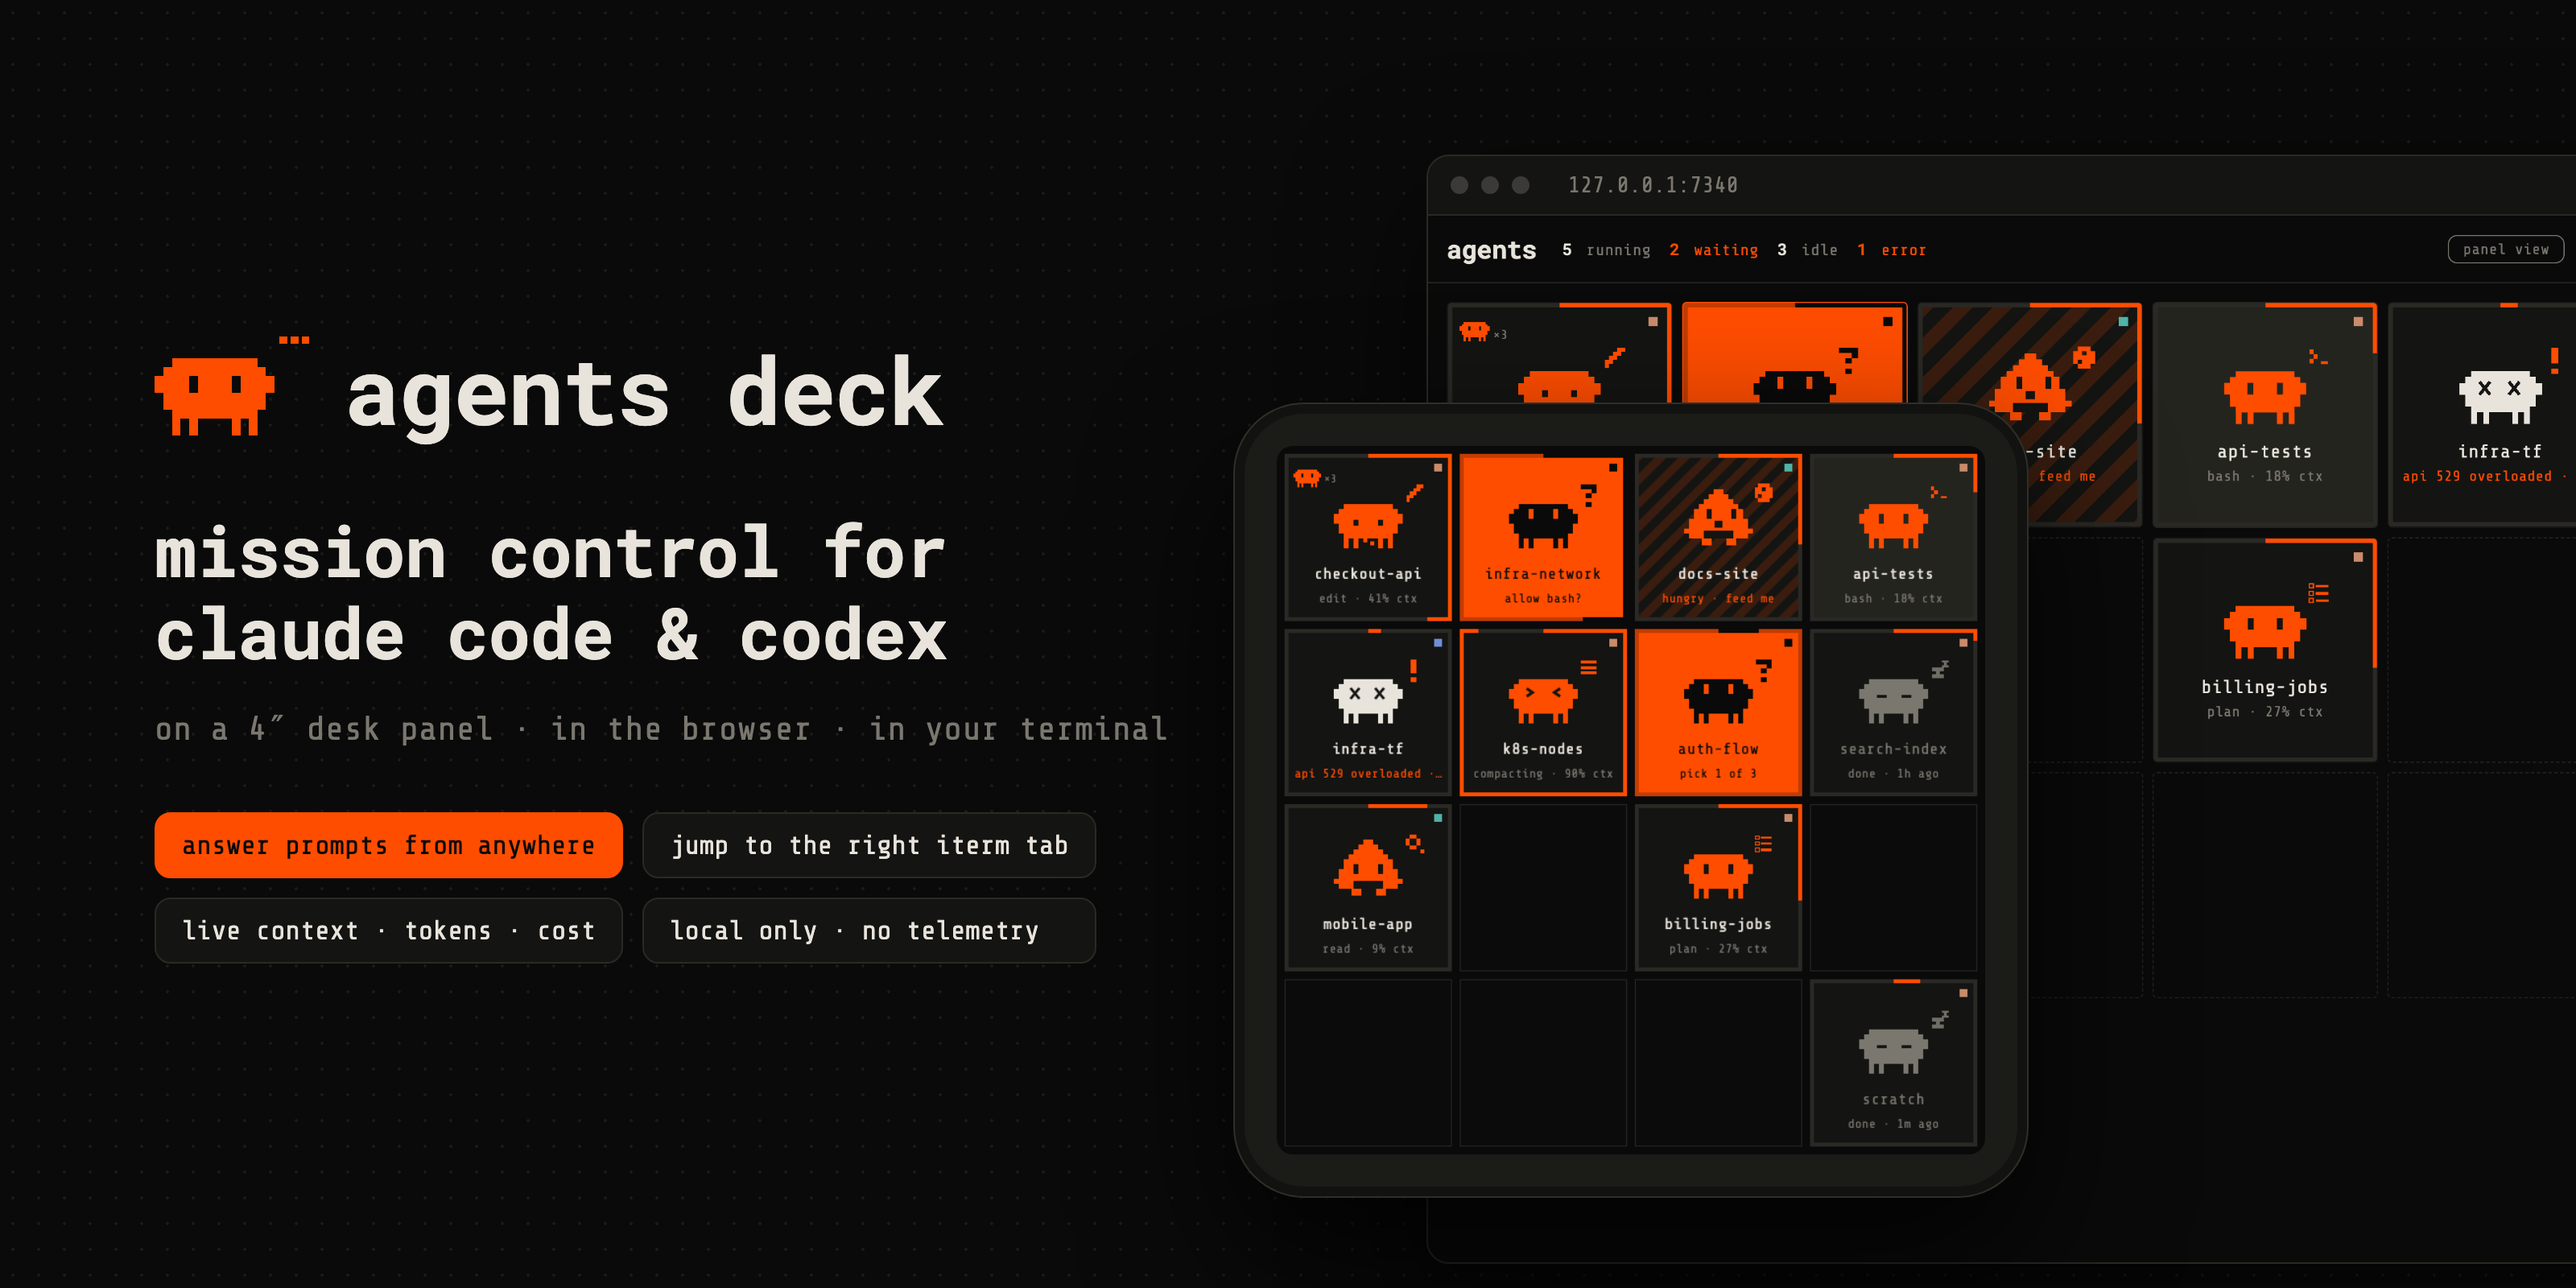
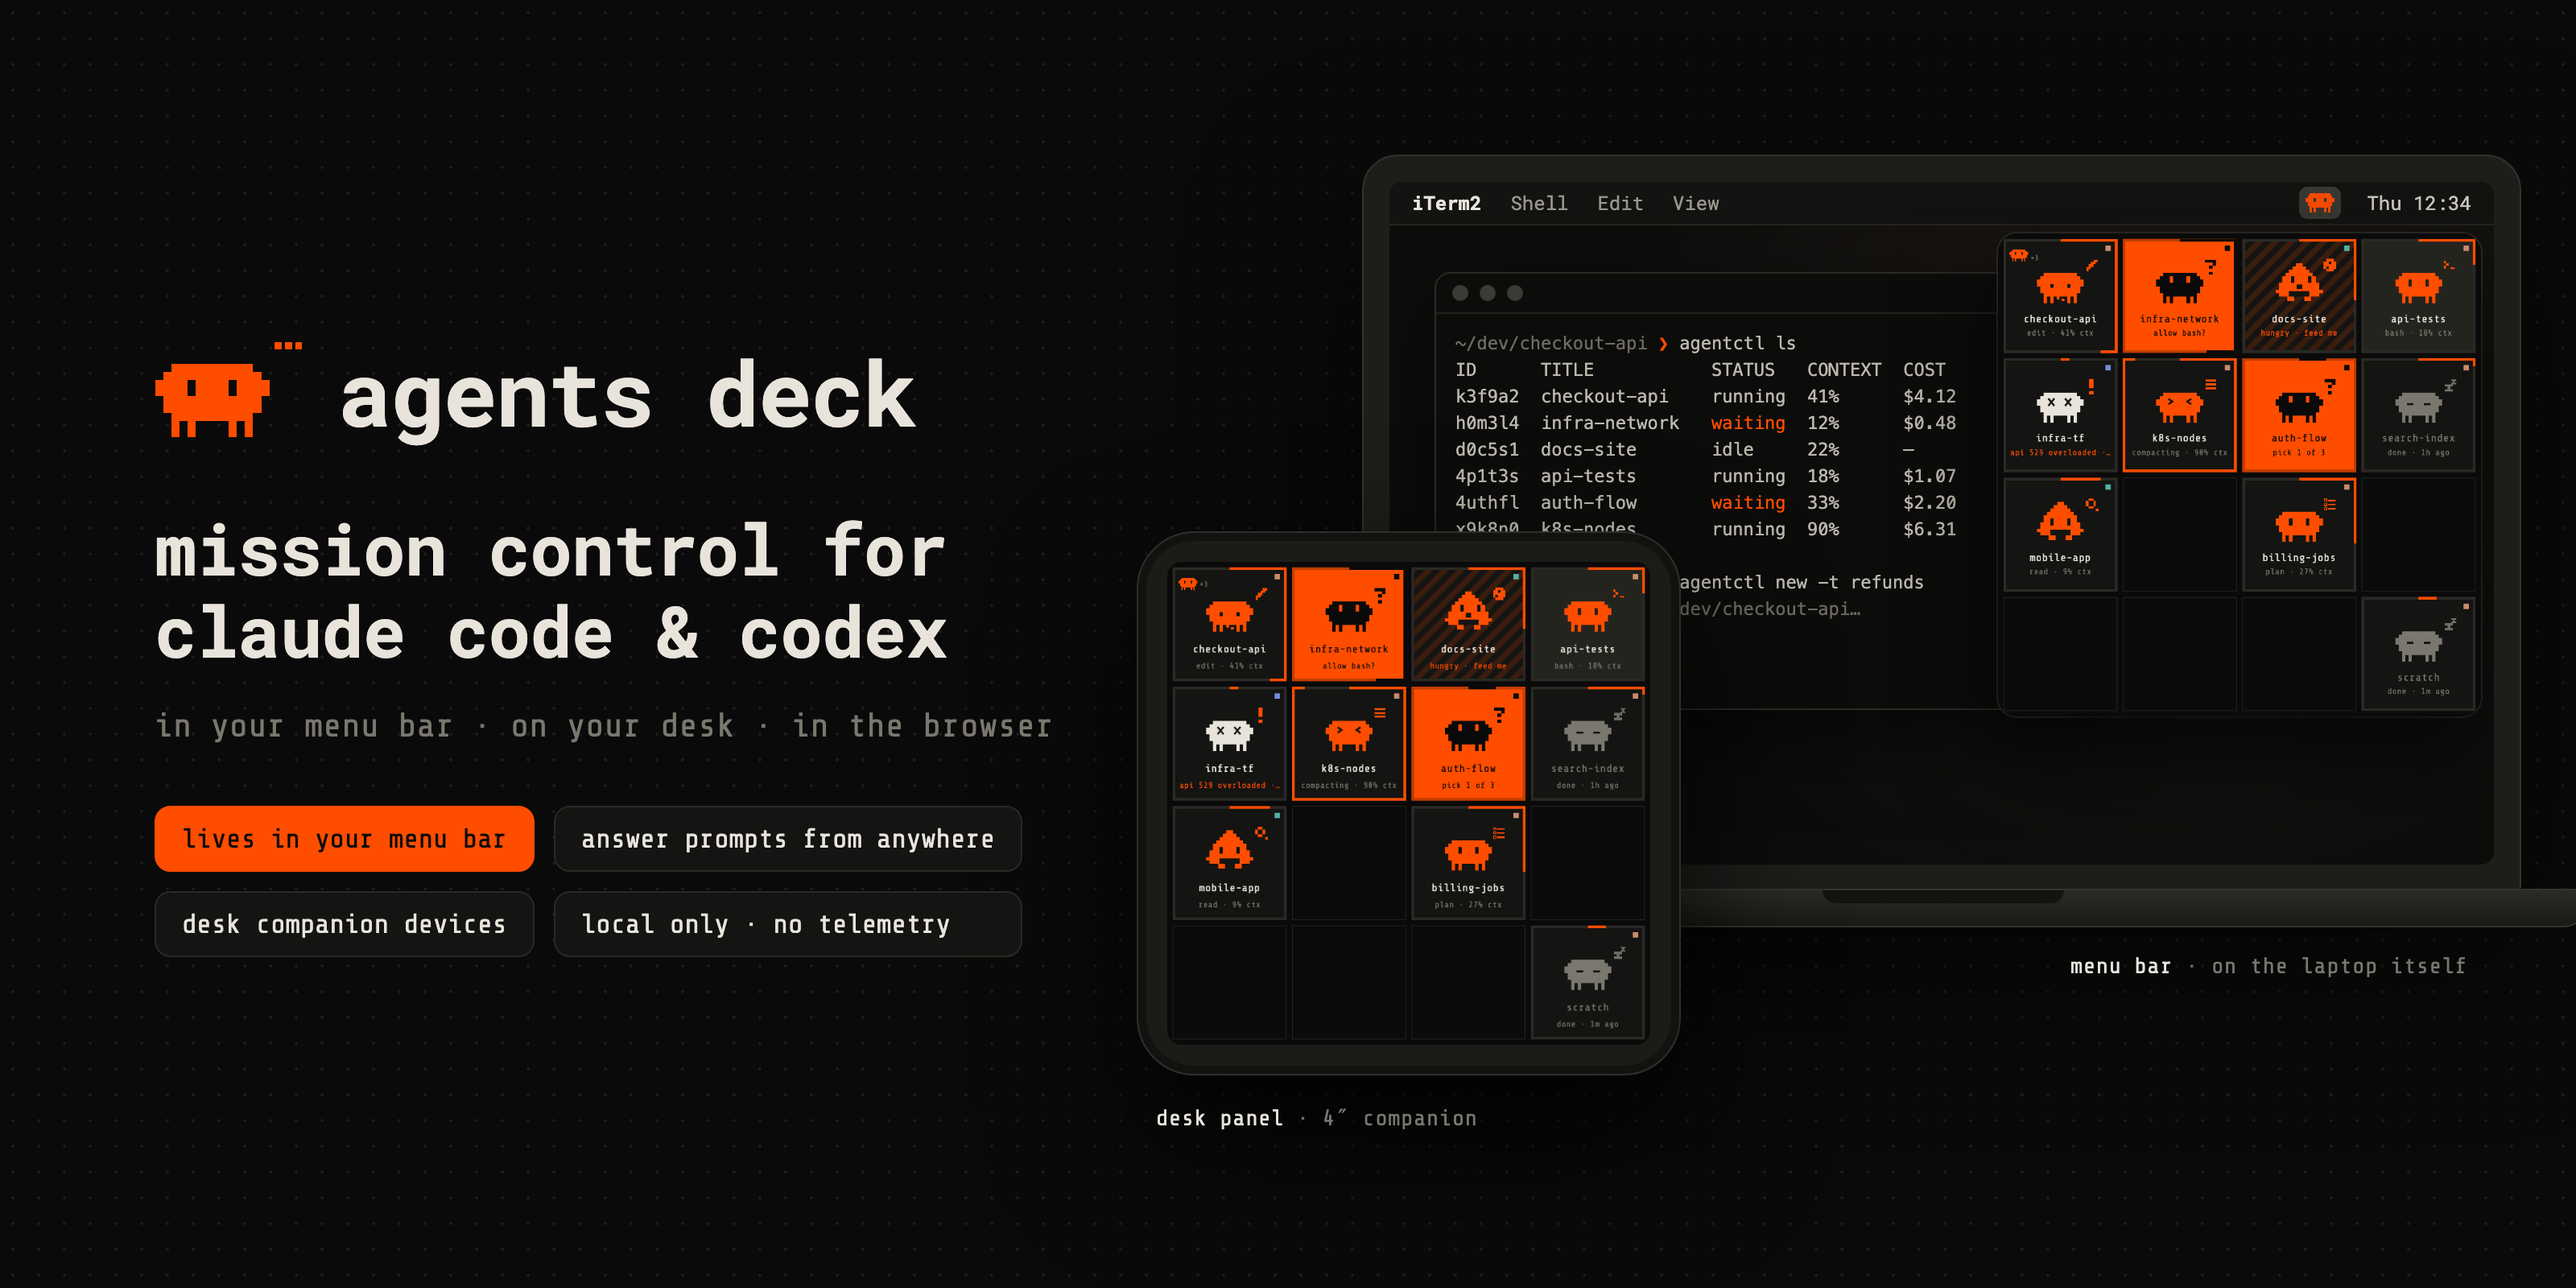
Release pipeline, installer, and a README for the menu bar era
- ci: Go vet/test (+ cross-compile check) and the Flutter tests on every push
- release: on a tag (or a release published in the UI), build agentctl and
  the menu bar app for macOS arm64, sign them (Developer ID + notarization
  when the secrets are set, ad-hoc otherwise) and attach them to the
  GitHub release with SHA256SUMS
- install.sh: latest release, checksum-verified, agentctl + optional app
- agentctl's version is stamped by release builds
- README: menu bar first, desk panel as a companion; new hero

Claude-Session: https://claude.ai/code/session_01Qi6CVTpwKe76G62P4KuUZF

diff --git a/backend/cmd/agentctl/main.go b/backend/cmd/agentctl/main.go
@@ -36,7 +36,8 @@ import (
 	"github.com/brushknight/agents-deck/backend/internal/web"
 )
 
-const version = "0.1.0"
+// version is stamped by release builds: -ldflags "-X main.version=<tag>".
+var version = "dev"
 
 const usage = `agentctl — agents-terminal
 

diff --git a/README.md b/README.md
@@ -1,8 +1,10 @@
-<p align="center"><img src="docs/images/hero.png" alt="agents deck: a pixel-critter board of Claude Code and Codex agents on a 4-inch desk panel and in the browser" width="100%"></p>
+<p align="center"><img src="docs/images/hero.png" alt="agents deck: a pixel-critter board of Claude Code and Codex agents in the macOS menu bar, with a 4-inch desk panel as a companion" width="100%"></p>
 
 # agents deck
 
-**Mission control for your Claude Code and Codex agents**, on a 4″ desk panel, in the browser and in your terminal.
+**Mission control for your Claude Code and Codex agents**: in your menu bar, on your desk, in the browser and in your terminal.
+
+It's fully self-contained on your laptop: a small daemon, a deck that drops down from the menu bar, and a web dashboard (also on your phone). Physical companions are optional: today a 4″ desk panel, with more devices coming.
 
 Claude Code agents are started with `agentctl new`. Each one runs in a private tmux session, and a small Go daemon keeps track of all of them: who's working, who needs you, what each one is doing, how full its context is and what it has cost so far. The board shows that live. When an agent asks for permission or asks you a question, you can answer from the panel or the web without going back to the terminal. **focus terminal** takes you to that agent's iTerm tab, even inside a hidden hotkey window.
 
@@ -14,6 +16,16 @@ The daemon only talks to your own Mac and your own panel. It has no telemetry an
 
 ## What you see
 
+### In the menu bar
+
+A critter in the macOS menu bar turns orange when an agent needs you. Click it and the same 4×4 deck as the desk panel drops down in the top-right corner; click a tile for the agent's card to answer, focus its terminal, interrupt or resume it. Esc, the ‹ button or a click elsewhere puts it away; right-click opens the web dashboard. It pairs with the local daemon by itself.
+
+| | |
+|---|---|
+| <img src="docs/images/menubar-deck.png" alt="the deck dropped down from the menu bar"> | <img src="docs/images/menubar-permission.png" alt="answering a permission prompt from the menu bar"> |
+
+### In the browser (and on your phone)
+
 | | |
 |---|---|
 | <img src="docs/images/web-board.png" alt="web dashboard: grid of agents"> | <img src="docs/images/web-permission.png" alt="answering a permission prompt from the web"> |
@@ -21,7 +33,7 @@ The daemon only talks to your own Mac and your own panel. It has no telemetry an
 | <img src="docs/images/web-detail.png" alt="agent detail"> | <img src="docs/images/web-panel.png" alt="panel view in the browser"> |
 | **Agent detail.** Shows what it's doing now, context used, tokens, estimated cost, turns and the last prompt, plus **focus terminal**, **interrupt** and **stop**. Subagents at work appear as small critters next to the mascot, each posed by what it's doing. | **Panel view.** The web dashboard can mirror the 720×720 desk panel. Arrange the board freely: drag a tile onto any free spot to move it there, or onto another tile to swap them. The layout is shared with the panel. |
 
-### On the desk panel
+### On the desk panel (companion device)
 
 A 4-inch 720×720 touch panel (Raspberry Pi CM4, Flutter) talks to the daemon over Wi-Fi. The connection is TLS with a pinned certificate.
 
@@ -30,10 +42,6 @@ A 4-inch 720×720 touch panel (Raspberry Pi CM4, Flutter) talks to the daemon ov
 | <img src="docs/images/panel-board.png" alt="panel board"> | <img src="docs/images/panel-permission.png" alt="panel permission prompt"> | <img src="docs/images/panel-question.png" alt="panel question"> |
 
 <p align="center"><img src="docs/images/critters.png" alt="every pose of the Claude critter and the Codex onigiri" width="70%"><br><sub>Every pose, for the Claude critter and the Codex onigiri: one for each kind of work, plus waiting, error, idle, starting, exited and compacting.</sub></p>
-
-### In the menu bar
-
-A critter in the macOS menu bar (orange when an agent needs you). Click it and the same 4×4 deck as the desk panel drops down; click a tile for the agent's card. Esc or a click elsewhere puts it away; right-click for the web dashboard or quit. It pairs with the local daemon by itself. Early: build it from `clients/macos` for now (see below).
 
 ### In the terminal
 
@@ -61,18 +69,31 @@ Settings in `config.json`: `"codex": false` turns it off, and `"codexWindowHours
 
 ## Quick start
 
-Requirements: macOS, Go 1.24+, tmux, Claude Code, and iTerm2 (only needed for tab focus). The Codex app is optional; its threads show up once it's installed.
+Requirements: macOS on Apple Silicon, tmux, Claude Code, and iTerm2 (only needed for tab focus). The Codex app is optional; its threads show up once it's installed.
 
 ```bash
-git clone git@github.com:brushknight/agents-deck.git && cd agents-deck/backend
-go build -o ~/.local/bin/agentctl ./cmd/agentctl
-agentctl install                  # LaunchAgent: the daemon starts at login
+curl -fsSL https://raw.githubusercontent.com/brushknight/agents-deck/main/install.sh | sh -s -- --app
+```
+
+That downloads the latest release, checks it against the release's `SHA256SUMS`, installs `agentctl` to `~/.local/bin`, starts the daemon at login (`agentctl install`) and puts the menu bar app in `~/Applications` (drop `--app` to skip it). Then:
+
+```bash
 source <(agentctl completion zsh) # tab completion (add to ~/.zshrc)
 
 cd ~/dev/my-project
 agentctl new                      # a Claude agent for this folder, attached here (ctrl-q detaches)
 agentctl web                      # open the dashboard (one-time login link)
 ```
+
+From source instead (Go 1.24+; Flutter 3.44 for the menu bar app):
+
+```bash
+git clone git@github.com:brushknight/agents-deck.git && cd agents-deck
+(cd backend && go build -o ~/.local/bin/agentctl ./cmd/agentctl) && agentctl install
+(cd clients/macos && flutter build macos --release)   # → build/macos/Build/Products/Release/agents deck.app
+```
+
+Releases are built by GitHub Actions on every tag; see [docs/releasing.md](docs/releasing.md).
 
 Want a full board without spending tokens? Run `agentctl sim start --root ~/dev --slots 12`. It starts simulated agents that "work" on the real projects under `~/dev`: they read, edit, run commands, ask questions and hit errors. They're read-only: they list file names and never open, change or run anything. `agentctl sim stop` removes them.
 
@@ -152,6 +173,7 @@ flowchart LR
 | `clients/flutter/agents_ui` | The deck UI as a Flutter package, shared by the desk panel and the menu bar app. |
 | `clients/macos` | The menu bar app (Flutter + a small native Swift shell). `flutter build macos --debug` builds `agents deck.app`. |
 | `docs/protocol.md` | The `/v1` API spoken by the web UI and the panel. |
+| `docs/releasing.md` | How releases are built, signed and published, and which platforms come next. |
 | `docs/roadmap.md` | What's planned next: restore after a tmux crash, a menu bar app, opt-in notifications, easy install. |
 | `docs/fixtures/state.json` | Sample fleet used by demo mode (`agentctl serve --demo`), the web fixture view and the panel tests. |
 

diff --git a/docs/releasing.md b/docs/releasing.md
@@ -1,0 +1,47 @@
+# Releasing
+
+## Cutting a release
+
+```bash
+git tag v0.2.0 && git push origin v0.2.0
+```
+
+The `release` workflow builds everything for that tag, creates the GitHub release (with generated notes) and attaches:
+
+| file | what |
+|---|---|
+| `agentctl_<version>_darwin_arm64.tar.gz` | the daemon and CLI |
+| `agents-deck_<version>_macos_arm64.zip` | the menu bar app (`agents deck.app`) |
+| `SHA256SUMS` | checksums of both, checked by `install.sh` |
+
+Publishing a release from the GitHub UI works too: the workflow fills that release. To rebuild an existing tag, run the workflow by hand (Actions → release → Run workflow).
+
+Every push to `main` and every pull request runs `ci`: Go vet and tests, cross-compiling for the planned platforms, and the Flutter tests of the deck UI and the menu bar app.
+
+## Signing and notarization (macOS)
+
+Without signing secrets, builds are ad-hoc signed: they run, but macOS warns the first time and treats every build as a new app (permission prompts come back after each update). With a Developer ID certificate, both `agentctl` and the app are signed with it, and the app is notarized so macOS opens it without a warning.
+
+Repository secrets (Settings → Secrets and variables → Actions):
+
+| secret | value |
+|---|---|
+| `MACOS_CERT_P12` | your **Developer ID Application** certificate with its private key, exported from Keychain Access as .p12, base64-encoded: `base64 -i cert.p12 \| pbcopy` |
+| `MACOS_CERT_PASSWORD` | the password you gave the .p12 export |
+| `MACOS_SIGNING_IDENTITY` | the identity name, e.g. `Developer ID Application: Your Name (TEAMID)` (`security find-identity -v -p codesigning`) |
+| `APPLE_ID` | the Apple ID of the developer account (for notarization) |
+| `APPLE_TEAM_ID` | the 10-character team ID |
+| `APPLE_APP_PASSWORD` | an app-specific password for that Apple ID (appleid.apple.com → Sign-In and Security) |
+
+The first three turn on signing; the last three add notarization. Notarization needs a paid Apple Developer membership; a certificate of another kind can sign, but macOS will still warn on first launch.
+
+## Platforms
+
+| target | status |
+|---|---|
+| macOS arm64 | released: `agentctl` and the menu bar app |
+| macOS amd64 | `agentctl` compiles; the app needs a universal Flutter build (blocked locally by Xcode 27's `lipo`, fine on CI's Xcode) |
+| Linux amd64 / arm64 | `agentctl` compiles (CI checks it); still needs a systemd user unit instead of the LaunchAgent, and terminal focus without iTerm |
+| Windows | not yet: agents run in tmux, which Windows lacks (WSL would be the path), and a few Unix-only calls need ports |
+
+Adding a target means a job beside `macos-arm64` in `.github/workflows/release.yml` that uploads its archives as an artifact; `publish` collects every artifact into the release and `SHA256SUMS`.

diff --git a/docs/roadmap.md b/docs/roadmap.md
@@ -35,7 +35,9 @@ Off by default. `agentctl set notify off|needs-you|all`:
 
 Delivered by the menu bar app as native notifications. Clicking one opens that agent's card. No sound unless asked for.
 
-## 4. Easy install: build and release pipeline
+## 4. Easy install: build and release pipeline — in place, first release pending
+
+`ci` (tests on every push) and `release` (on a tag: builds, optional signing and notarization, GitHub release with `SHA256SUMS`) workflows, and `install.sh`. macOS arm64 only for now; see [releasing.md](releasing.md) for signing secrets and the platform plan.
 
 - GitHub Actions: `go test -race` and the web checks on every push; a release builds on every tag.
 - Release artifacts:
